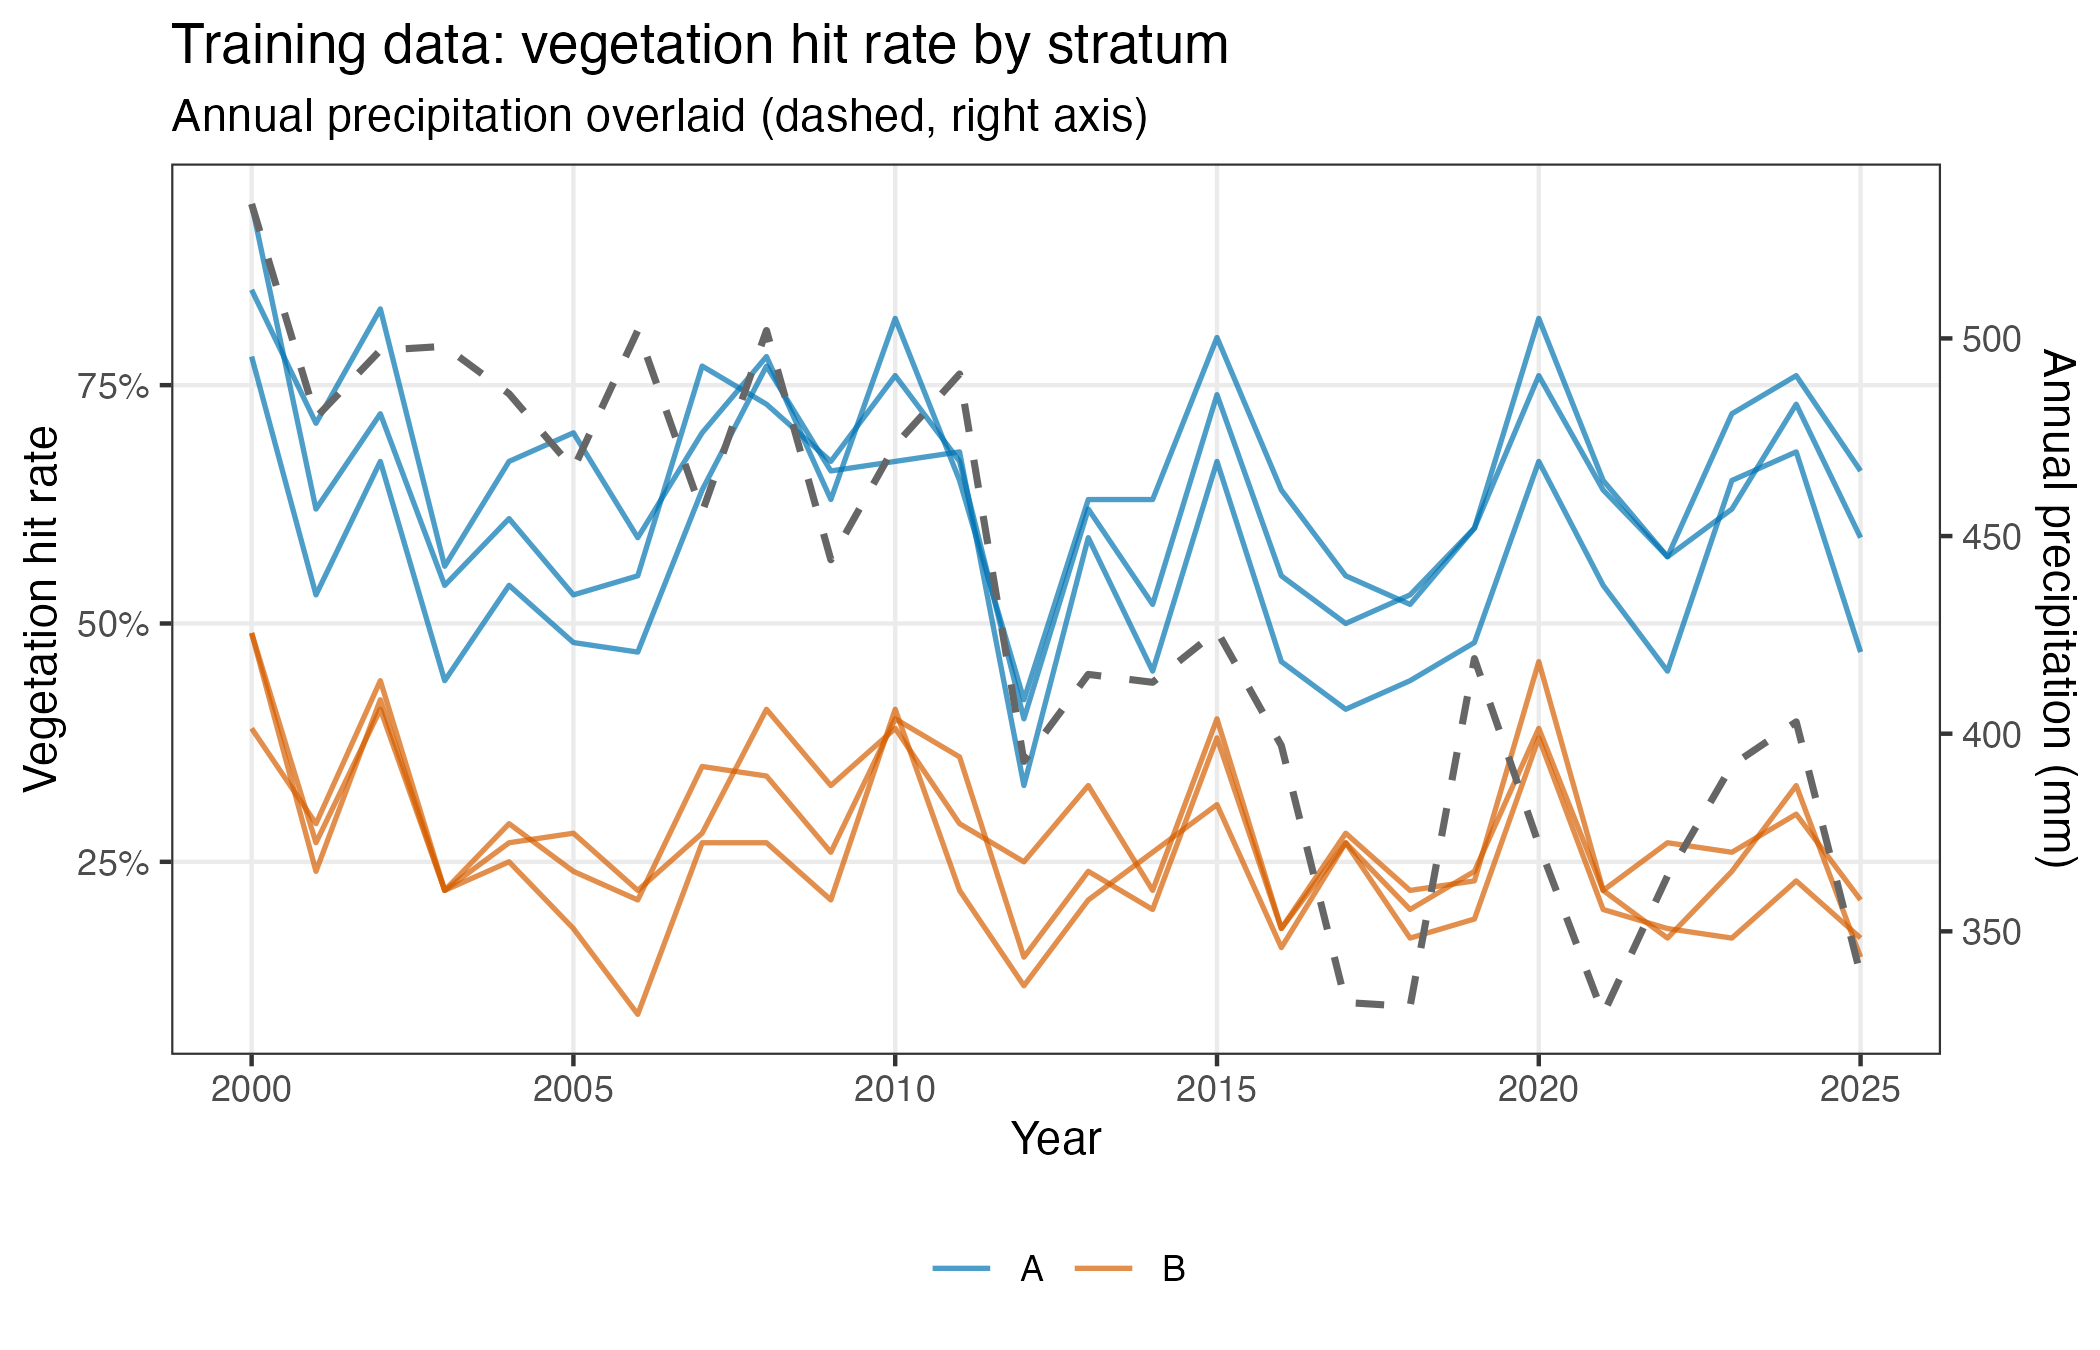
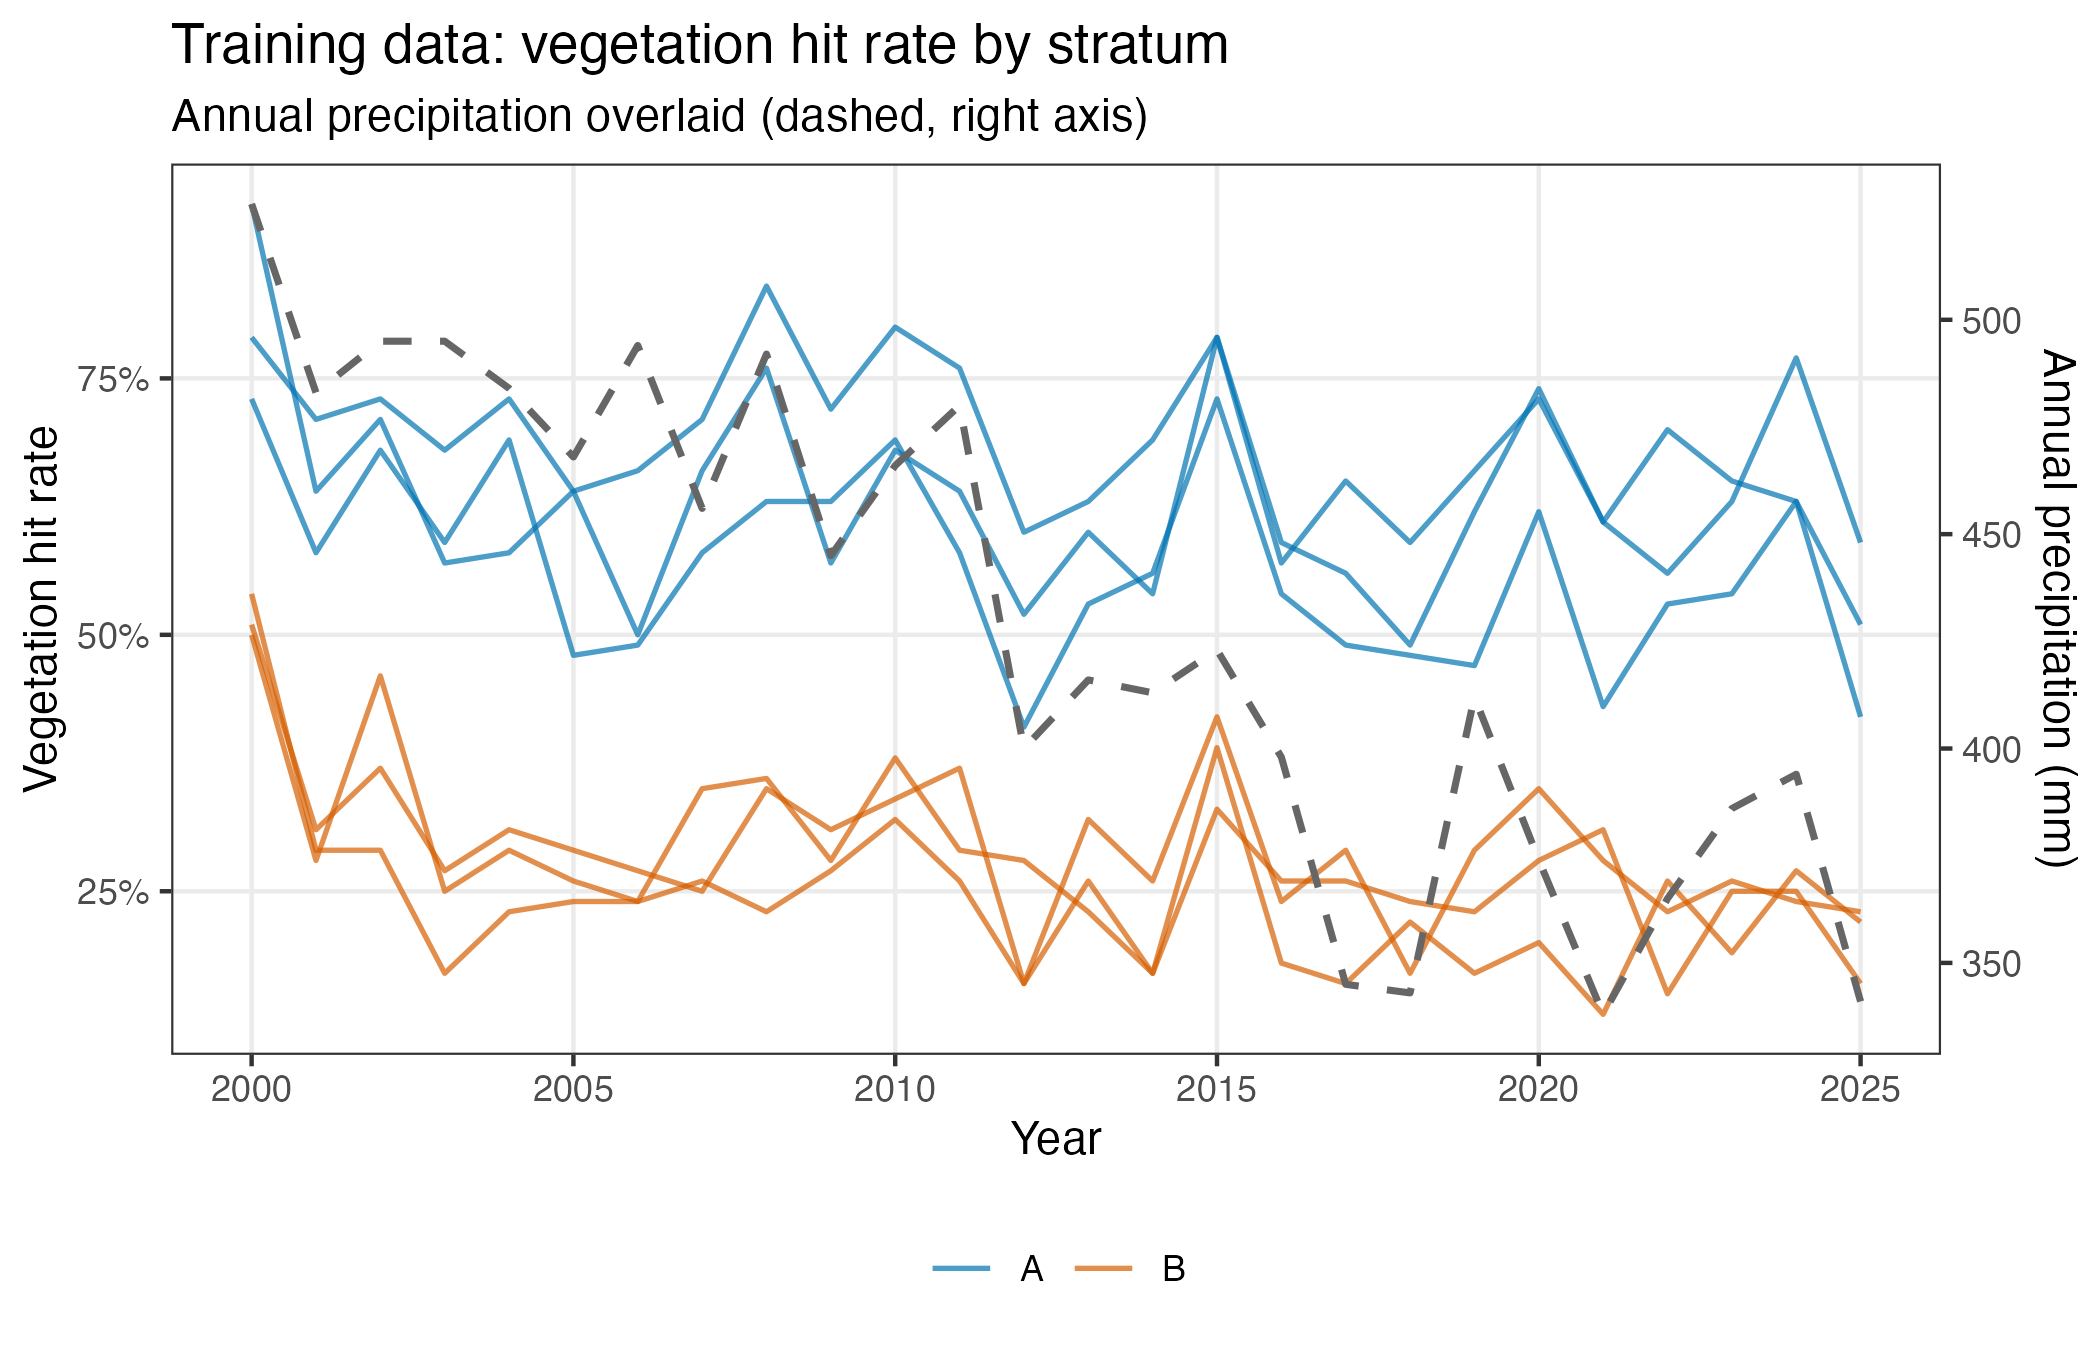
update mock data tutorial + images

diff --git a/docs/website/content/docs/5-forecasting/running/tutorials/mock-data/index.md b/docs/website/content/docs/5-forecasting/running/tutorials/mock-data/index.md
@@ -6,13 +6,15 @@ bookToc: true
 
 # Your First Forecast (Mock Data)
 
+This tutorial walks through a simple forecast run using synthetic data. By the end you will have fit a model to, used this model to forecast  under two climate scenarios, and explored the forecast's outputs.
+
 ## Prerequisites
 
-A working M4MD repo. [TODO: formalize this]
+See [Getting started]({{< ref "/docs/0-getting-started/installation.md" >}}) if you haven't already.
 
 ## Step 0: Understand the mock data
 
-This mock dataset represents a park unit (ELDO) with two vegetation strata (A and B), three sites per stratum, and three transects per site — surveyed annually from 2000 to 2025. Each transect records how many of 100 sample points hit a plant (`y_hits` out of `n_points = 100`). A single climate covariate, precipitation (ppt), declines gradually over the training period and drives the vegetation response.
+This mock dataset represents a park unit (ELDO) with two vegetation strata (A and B), three sites per stratum, and one transect per site. The data is annual from 2000 to 2025. Each transect records how many of 100 sample points hit a plant (`y_hits` out of `n_points = 100`). A single climate covariate, precipitation (ppt), declines gradually over the training period and drives the vegetation response.
 
 There are three files, all pre-committed to `assets/_data/`:
 
@@ -20,10 +22,10 @@ There are three files, all pre-committed to `assets/_data/`:
 |------|-----------------|
 | `pg-hits.csv` | Transect-level vegetation observations (one row per transect-year) |
 | `pg-covariates.csv` | Annual precipitation per site (one row per site-year) |
-| `pg-covariates-scenarios.csv` | Future precipitation under three climate scenarios × three GCM model runs |
+| `pg-covariates-scenarios.csv` | Future precipitation under two climate scenarios |
 
 {{< hint info >}}
-You don't need to generate the data — it's already in the repo. The script that created it is at `forecasting/getting-started/generate-mock-data.R` if you want to see exactly how it was built or regenerate it.
+You don't need to generate the data — it's already in the repo. The script that created it is at `forecasting/getting-started/generate-mock-data.R` if you want to play around with generating alternative mock data.
 {{< /hint >}}
 
 ### Trainingg observations (`pg-hits.csv`)
@@ -32,37 +34,36 @@ Each row is one transect in one year. The model fits to `y_hits` as a binomial o
 
 | stratum | park_unit | event_year | transect | site | n_points | y_hits |
 |---------|-----------|------------|----------|------|----------|--------|
-| A | ELDO | 2000 | 1 | A1 | 100 | 65 |
-| A | ELDO | 2000 | 2 | A1 | 100 | 64 |
-| A | ELDO | 2000 | 3 | A1 | 100 | 57 |
-| A | ELDO | 2001 | 3 | A1 | 100 | 60 |
+| A | ELDO | 2000 | 1 | A1 | 100 | 94 |
+| A | ELDO | 2001 | 1 | A1 | 100 | 62 |
+| A | ELDO | 2002 | 1 | A1 | 100 | 72 |
 | … | … | … | … | … | … | … |
 
 ### Climate covariates (`pg-covariates.csv`)
 
-One precipitation value (mm) per site per year — shared across all transects at that site.
+One precipitation value (mm) per site per year.
 
 | park_unit | stratum | site | event_year | ppt |
 |-----------|---------|------|------------|-----|
-| ELDO | A | A1 | 2000 | 476 |
-| ELDO | A | A1 | 2001 | 500 |
-| ELDO | A | A1 | 2002 | 518 |
+| ELDO | A | A1 | 2000 | 534 |
+| ELDO | A | A1 | 2001 | 480 |
+| ELDO | A | A1 | 2002 | 497 |
 | … | … | … | … | … |
 
 ### Future scenarios (`pg-covariates-scenarios.csv`)
 
-Three climate trajectories (continued decline, flat, and increasing), each with three "GCM" model runs, covering 2026–2040.
+Two climate trajectories (continued decline and increasing), each with one "GCM" model run covering 2026–2040.
 
-| scenario_name | model_run_name | park_unit | stratum | site | event_year | ppt |
-|---------------|----------------|-----------|---------|------|------------|-----|
-| continued_decline | Mock-GCM-1 | ELDO | A | A1 | 2026 | 380 |
-| continued_decline | Mock-GCM-1 | ELDO | A | A1 | 2027 | 405 |
-| flat | Mock-GCM-1 | ELDO | A | A1 | 2026 | 456 |
-| … | … | … | … | … | … | … |
+| scenario_id | scenario_name | model_run_id | model_run_name | park_unit | stratum | site | event_year | ppt |
+|-------------|---------------|--------------|----------------|-----------|---------|------|------------|-----|
+| 1 | continued_decline | 1 | Mock-GCM-1 | ELDO | A | A1 | 2026 | 384 |
+| 1 | continued_decline | 1 | Mock-GCM-1 | ELDO | A | A1 | 2027 | 330 |
+| 1 | continued_decline | 1 | Mock-GCM-1 | ELDO | A | A1 | 2028 | 319 |
+| … | … | … | … | … | … | … | … |
 
 ### What the data looks like
 
-Vegetation hit rate tracks precipitation closely, with stratum A starting at a higher baseline (~65%) than stratum B (~35%). Both strata decline as precipitation falls.
+Vegetation hit rate tracks precipitation closely, with stratum A starting at a higher baseline (~75%) than stratum B (~45%). Both strata decline as precipitation falls.
 
 ![Vegetation hit rate by stratum over time, with precipitation overlaid](01-training-hits.png)
 
@@ -78,9 +79,8 @@ The three future scenarios bracket the range of plausible climate outcomes. Each
 
 ## Step 1: Fit the Model
 
-The mock training data (`assets/_data/pg-*.csv`) are accompanying configuration files are already in this repo. Let's take a look at them before fitting the pipeline.
-Run the fitting pipeline to generate the model artifacts that the forecasting
-pipeline will read:
+Now that we understand the data, we can run the fitting pipeline to generate the model artifacts that the forecasting
+pipeline will read.
 
 ```bash
 Rscript analysis-pipeline.R assets/_config/M4MD/ELDO/mock-cover.yml \
